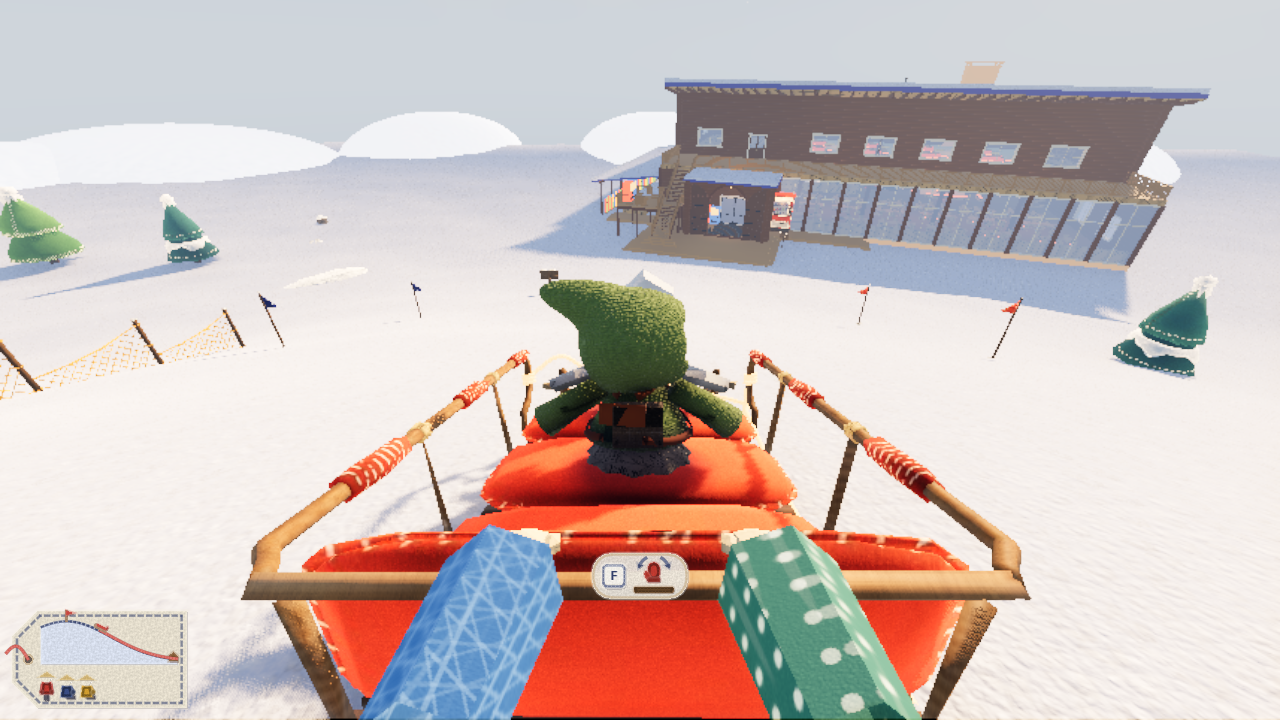
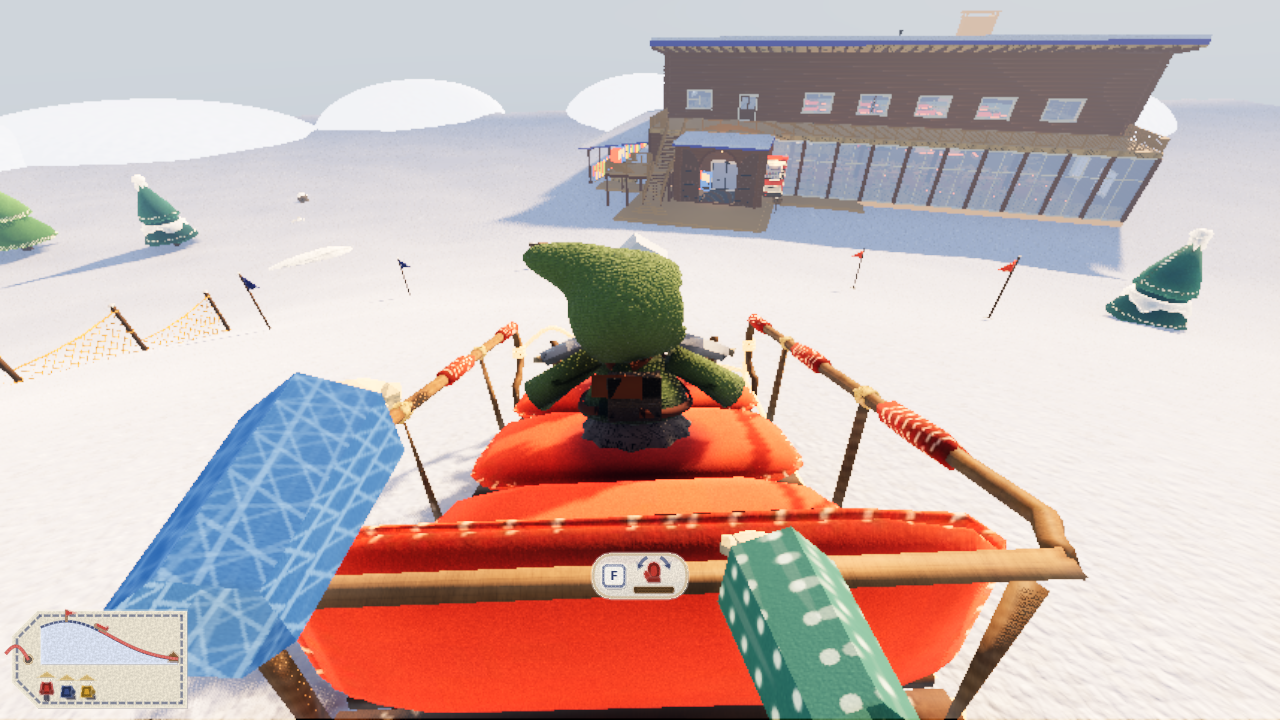
引きずられているときの体勢を大きく崩し、かかとに「ぐし縫いのギャザー」の引きずられ跡を残す
- 代表「引きずられてるときもっと体制崩してほしい」: 体ごと前のめり、片足を突っ張りもう片足は膝が折れる、
  左右によろける、左手はソリを離して宙をかく、1 秒ちょっとごとに膝ががくっと抜ける。一人称も傾き・沈み・左の袖が宙をかく
- 代表「引きずられ跡用のステッチを新しく作ってほしい」: かかと 2 本の線に、赤茶の毛糸の短いなみ縫いと、
  目のまわりに雪の編み地が縫い縮められて寄ったひだ（look.gd の gather_stitch_mesh）。速いほどひだが濃い
- 米袋を 1 kg に（代表がモデルのセッションで決めた）、小の席の高さを glb に合わせて 0.06 m に
- 雪がとても明るいので、ひだの乗算は深い影の青にした（薄い青では白く飛んで見えなかった）

diff --git a/design/controls-and-physics.md b/design/controls-and-physics.md
@@ -48,12 +48,13 @@
 
 | 名前 | 何 | 重さ | 席 | 台（幅 × 長さ） |
 |---|---|---|---|---|
-| sack | 米袋（1 人用） | 0 kg | 1 | 0.6 × 1.1 m |
+| sack | 米袋（1 人用） | 1 kg | 1 | 0.6 × 1.1 m |
 | small | ホームセンターのプラスチックのソリ（1〜2 人） | 15 kg | 2（縦に並ぶ） | 0.75 × 1.6 m |
 | mid | いまのフェルトのソリ | 60 kg | 3 | 1.5 × 2.8 m |
 | large | サンタが乗るような大きなそり（8 人） | 220 kg | 8（横 2 × 縦 4） | 2.2 × 4.8 m |
 
-- 米袋の重さ 0 は、止める計算（下）の重さに入れる値。物理の体は揺れないよう 15 kg（`BODY_MIN_MASS`）として動かし、止める力は「本当の重さ（袋 0 ＋ 乗る人）」との比で弱めてかける
+- 米袋の 1 kg（はじめ 0 kg、2026-10-29 代表「米袋1kgにしよう」）は、止める計算（下）の重さに入れる値。物理の体は揺れないよう 15 kg（`BODY_MIN_MASS`）として動かし、止める力は「本当の重さ（袋 1 kg ＋ 乗る人）」との比で弱めてかける
+- 小の席は、成形ソリの座る面に合わせて低い（0.06 m。glb に合わせた）
 - 滑り木の抵抗・体重移動で曲がる効き・雪をかく力は、重さに比べて中と同じ効きにしている（大きなソリも小さなソリも、曲がり方は同じ）
 
 ## ずり落ちと引きずり（2026-10-29）
@@ -63,7 +64,11 @@
 - **手を離すとずり落ちる**：誰もつかんでいない・乗っていない空のソリは、坂の傾きが `SLIDE_GRIP` より急な所でひとりでに下へ滑る。乗っていないと雪に食い込むので、乗ったときよりずっと遅い（`SLIDE_DAMP`）。ふもとの緩い所（頂上から約 50 m）で止まる。頂上のまわり（約 5 m まで）は緩いので留まる
   - 最初と R で戻したときのソリは「止めてある」（`parked`）。誰かが触れるまでずり落ちない（始まってすぐソリが逃げないように）
 - **雪玉で手を離す**：縁をつかんでいる・押している・紐を持っている人に雪玉が当たると、びっくりして手を離す。止めるには、もう一度 F でつかむ。仲間は 1.5 秒（`bot.gd` の `REGRAB_WAIT`）たつとつかみ直しに行く。乗っている人は降ろさない
-- **引きずられる**：`DRAG_SPEED` より速く下っているソリをつかむと、引きずられる。その間は押せず（W は効かない）、ひとりでに踏ん張って止める力（一人 `STOP_FORCE`）がかかる。片足を前へ突っ張り、体はソリへ引かれて前に傾き、足もとから綿の雪の粉が舞い、かかとが雪をすべる「ざざざ」が鳴る。一人称の目は低く前へ出て、雪のでこぼこで小さく揺れる。HUD は「F 手を離す」のワッペンだけ
+- **引きずられる**：`DRAG_SPEED` より速く下っているソリをつかむと、引きずられる。その間は押せず（W は効かない）、ひとりでに踏ん張って止める力（一人 `STOP_FORCE`）がかかる。HUD は「F 手を離す」のワッペンだけ
+  - 体勢が崩れる（2026-10-29 代表「もっと体勢崩してほしい」）: 体ごとソリへ前のめりに引かれ、片足を前へ突っ張ってかかとですべり、もう片足は後ろに残って膝が折れる。左右によろけ、左手はソリを離して宙をかき、右手だけでしがみつく。1 秒ちょっとごとに膝ががくっと抜けて沈む（人形の 12 コマで刻む）
+  - 一人称: 目が低く前へ出て、左右によろけて傾き、膝が抜けるたびに沈む。左の袖は画面の左上で宙をかく。設定の「視点の揺れ」を切ると弱くなる
+  - 足もとから綿の雪の粉が舞い、かかとが雪をすべる「ざざざ」が鳴る
+  - **引きずられ跡のステッチ**: かかと 2 本の線に、赤茶の毛糸の「ぐし縫いのギャザー」を残す。短いなみ縫いの目のまわりに、雪の編み地が縫い縮められて寄ったひだができる。速く引きずられるほどひだが濃い。ソリの滑りあと（青いジグザグ）と見分けられる（`look.gd` の `gather_stitch_mesh`、`sled.gd` の `_update_heel_stitches`。見本帳は `props/stitches.md`）
 - **止まるか**：止める人の力の合計が「ソリと乗っている人の重さ × 坂」に勝てば、だんだん遅くなり、`DRAG_STOP_SPEED` まで落ちたら踏みとどまって静止摩擦で留まる。負ければ引きずられ続け、`DRAG_MAX_DIST` 引きずられると手が離れる。`DRAG_SLIP_SPEED` より速いソリは、つかんでもすぐ手が離れる
   - 乗っている人の重さ（一人 `RIDER_MASS`）は、止めるときだけ数える。登りは前と同じく、乗る人で速くも遅くもならない（「人が加わるほど速く登れる」を守るため）
   - 止める力はソリがまとめて計算する（通信ではホストがソリと一緒に計算して配る）。人の側は「引きずられているか」を読んで、姿勢と音を変えるだけ
@@ -100,7 +105,7 @@
 | ソリ | 乗る人 | 止める人 1 | 止める人 2 | 止める人 3 |
 |---|---|---|---|---|
 | 米袋 | 0 | すぐ止まる | すぐ止まる | すぐ止まる |
-| 米袋 | 1 | 2.9 m・1.3 秒 | 1.2 m・0.7 秒 | 0.8 m・0.5 秒 |
+| 米袋 | 1 | 3.0 m・1.3 秒 | 1.3 m・0.7 秒 | 0.8 m・0.5 秒 |
 | 小 | 0 | すぐ止まる | すぐ止まる | すぐ止まる |
 | 小 | 1 | 4.6 m・1.9 秒 | 1.7 m・0.8 秒 | 1.1 m・0.6 秒 |
 | 小 | 2 | 止まらない（15 m・4.2 秒で離れる） | 3.7 m・1.5 秒 | 2.1 m・0.9 秒 |
@@ -114,10 +119,13 @@
 
 米袋は 2 人以上、小は 3 人は乗れない（席がない）。中に乗る人 1〜3 を、頂上から 22 m（7.2 m/s）でつかむと: 1 人乗りは止める人 2 で 7.1 m、3 で 4.0 m。2 人乗りは 2 で 13.1 m、3 で 6.6 m。3 人乗りは 3 で 10.1 m（2 では止まらない）。30 m（8.9 m/s）では速すぎて、何人でもすぐ手が離れる。
 
-一人称で引きずられている場面（頂上から 15 m でつかんだ 0.8 秒後、4.8 m/s）と、横から見た姿勢:
+米袋は 1 kg にしてから測り直した（0 kg のときは 2.9 m・1.2 m・0.8 m）。
+
+一人称で引きずられている場面（頂上から 15 m でつかんだ 0.8 秒後、4.8 m/s）と、横から見た姿勢、後ろ上から見たかかとの引きずられ跡（つかんで 2 秒）:
 
 ![一人称](sled-drag/fp-dragged.png)
 ![横から](sled-drag/side-dragged.png)
+![引きずられ跡](sled-drag/heel-stitches.png)
 
 ### 決めていないこと
 

diff --git a/props/stitches.md b/props/stitches.md
@@ -25,6 +25,13 @@
 | `feather` | フェザーステッチ | 左右に枝分かれする羽根 | 差し替え |
 | `garden` | 花の蔓 | 波打つ茎（ステムステッチ）に 5 枚の花びらの花（レゼーデージー）と葉、花の芯はフレンチノット。赤・緑・山吹の 3 色 | 報酬・買い物 |
 
+## ゲームの中の跡（Godot。2026-10-29）
+
+| 名前 | 縫い目 | 見え方 | 使いどころ |
+|---|---|---|---|
+| 滑りあと | 太い 2 本撚りのジグザグ | 雪より濃い毛糸の青。左右の滑り木の 2 本 | ソリが滑った跡（`look.gd` の `stitch_mesh`） |
+| 引きずられ跡 | ぐし縫いのギャザー | 赤茶の毛糸の短いなみ縫いが、かかとの 2 本の線に並ぶ。目のまわりの雪の編み地が縫い縮められ、ひだが寄る。速く引きずられるほどひだが濃い | 速いソリをつかんで引きずられた人のかかとの跡（`look.gd` の `gather_stitch_mesh`）。絵は `design/sled-drag/heel-stitches.png` |
+
 ## これから作る候補（調べてためる）
 
 丈夫さ（太い・詰んだ・重ねた）と、飾り（花・模様・色数）の 2 つの軸で並べる。丈夫なものは重いソリの標準や上位の差し替えに、飾りのものは報酬に向く。
